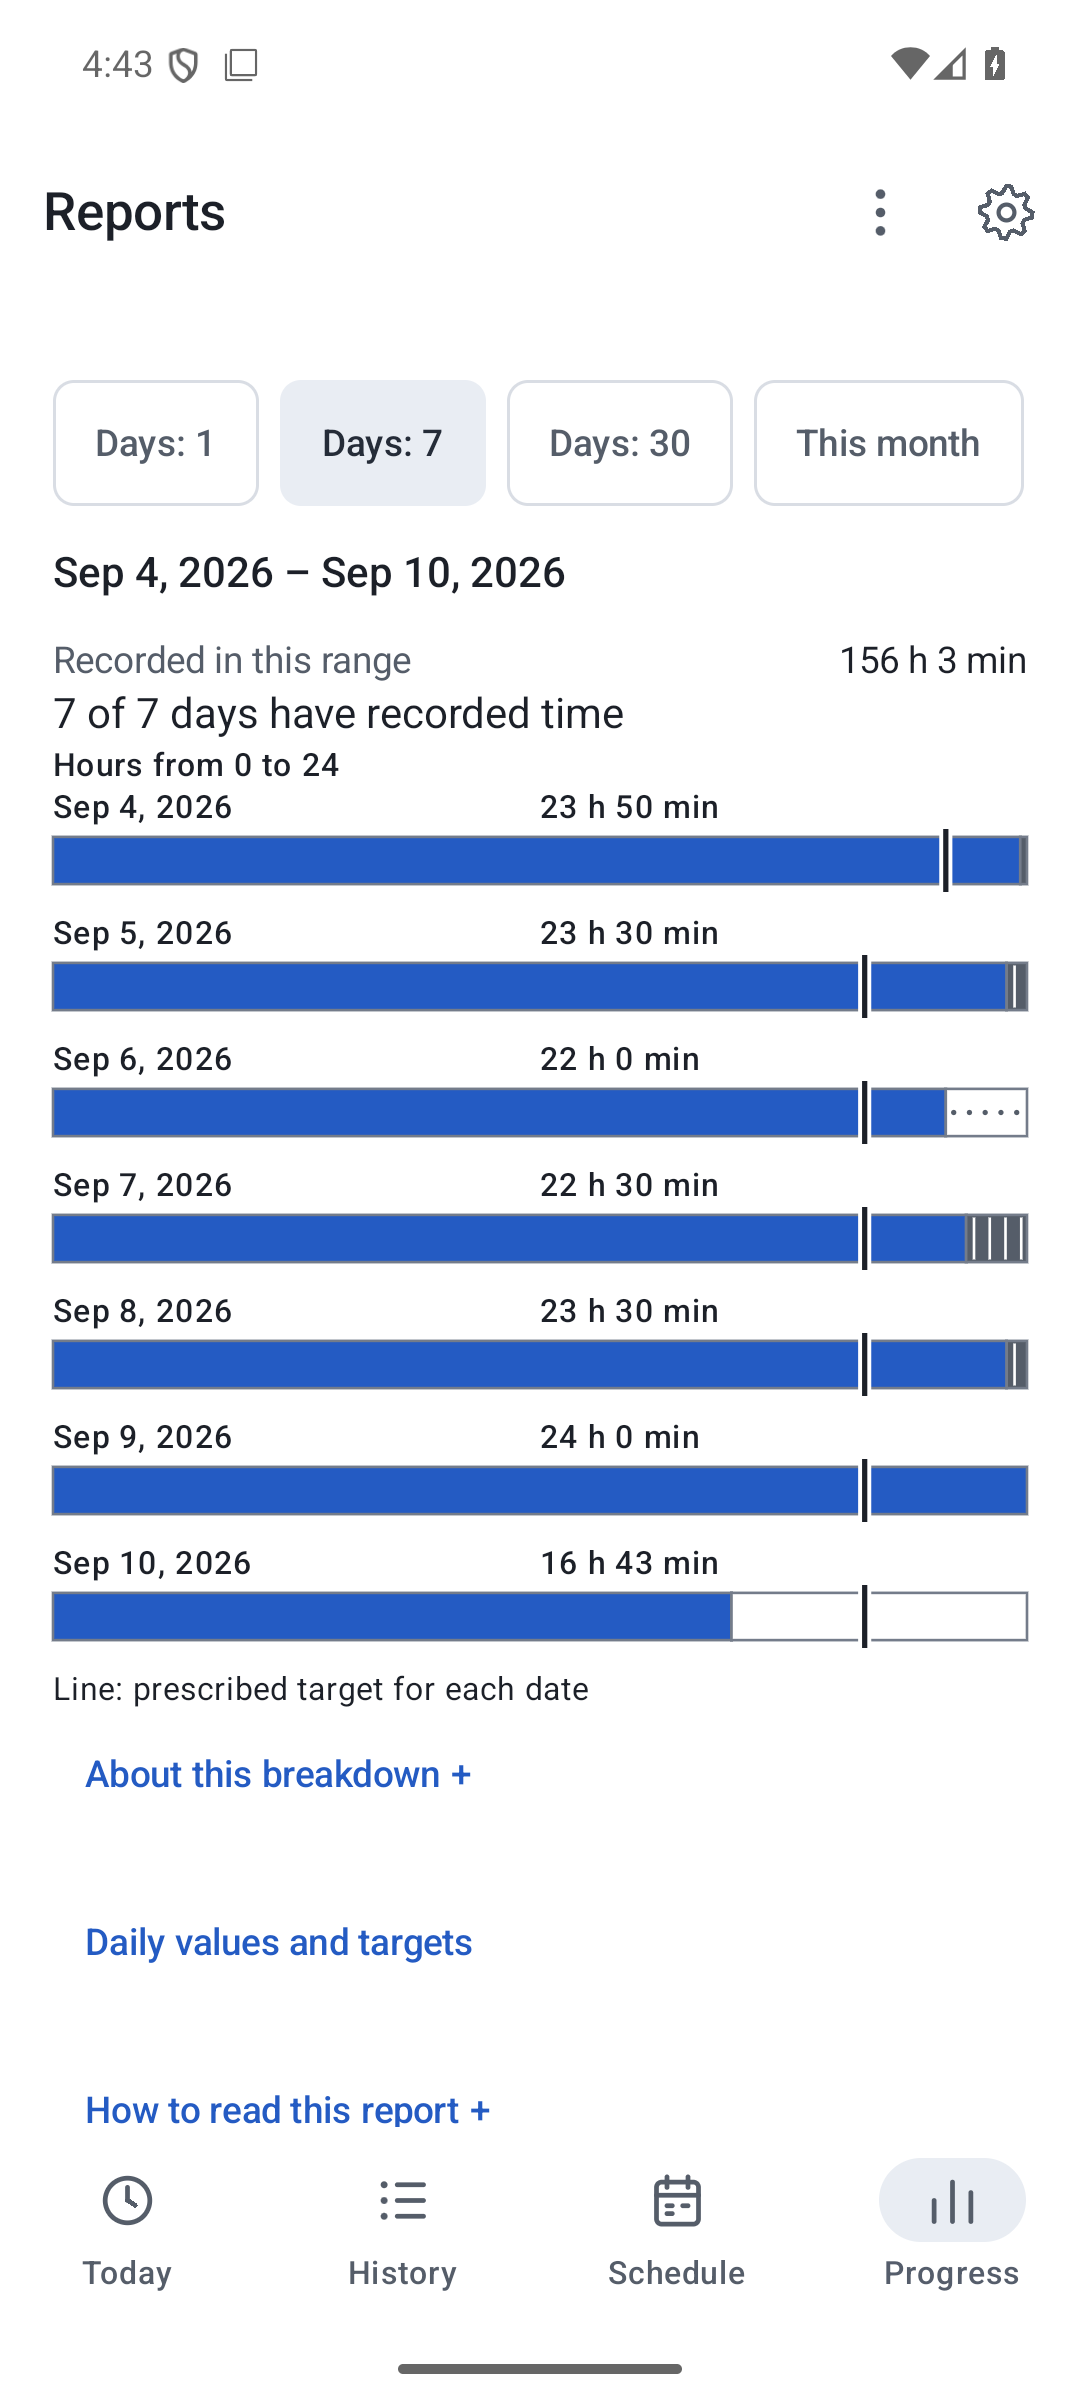
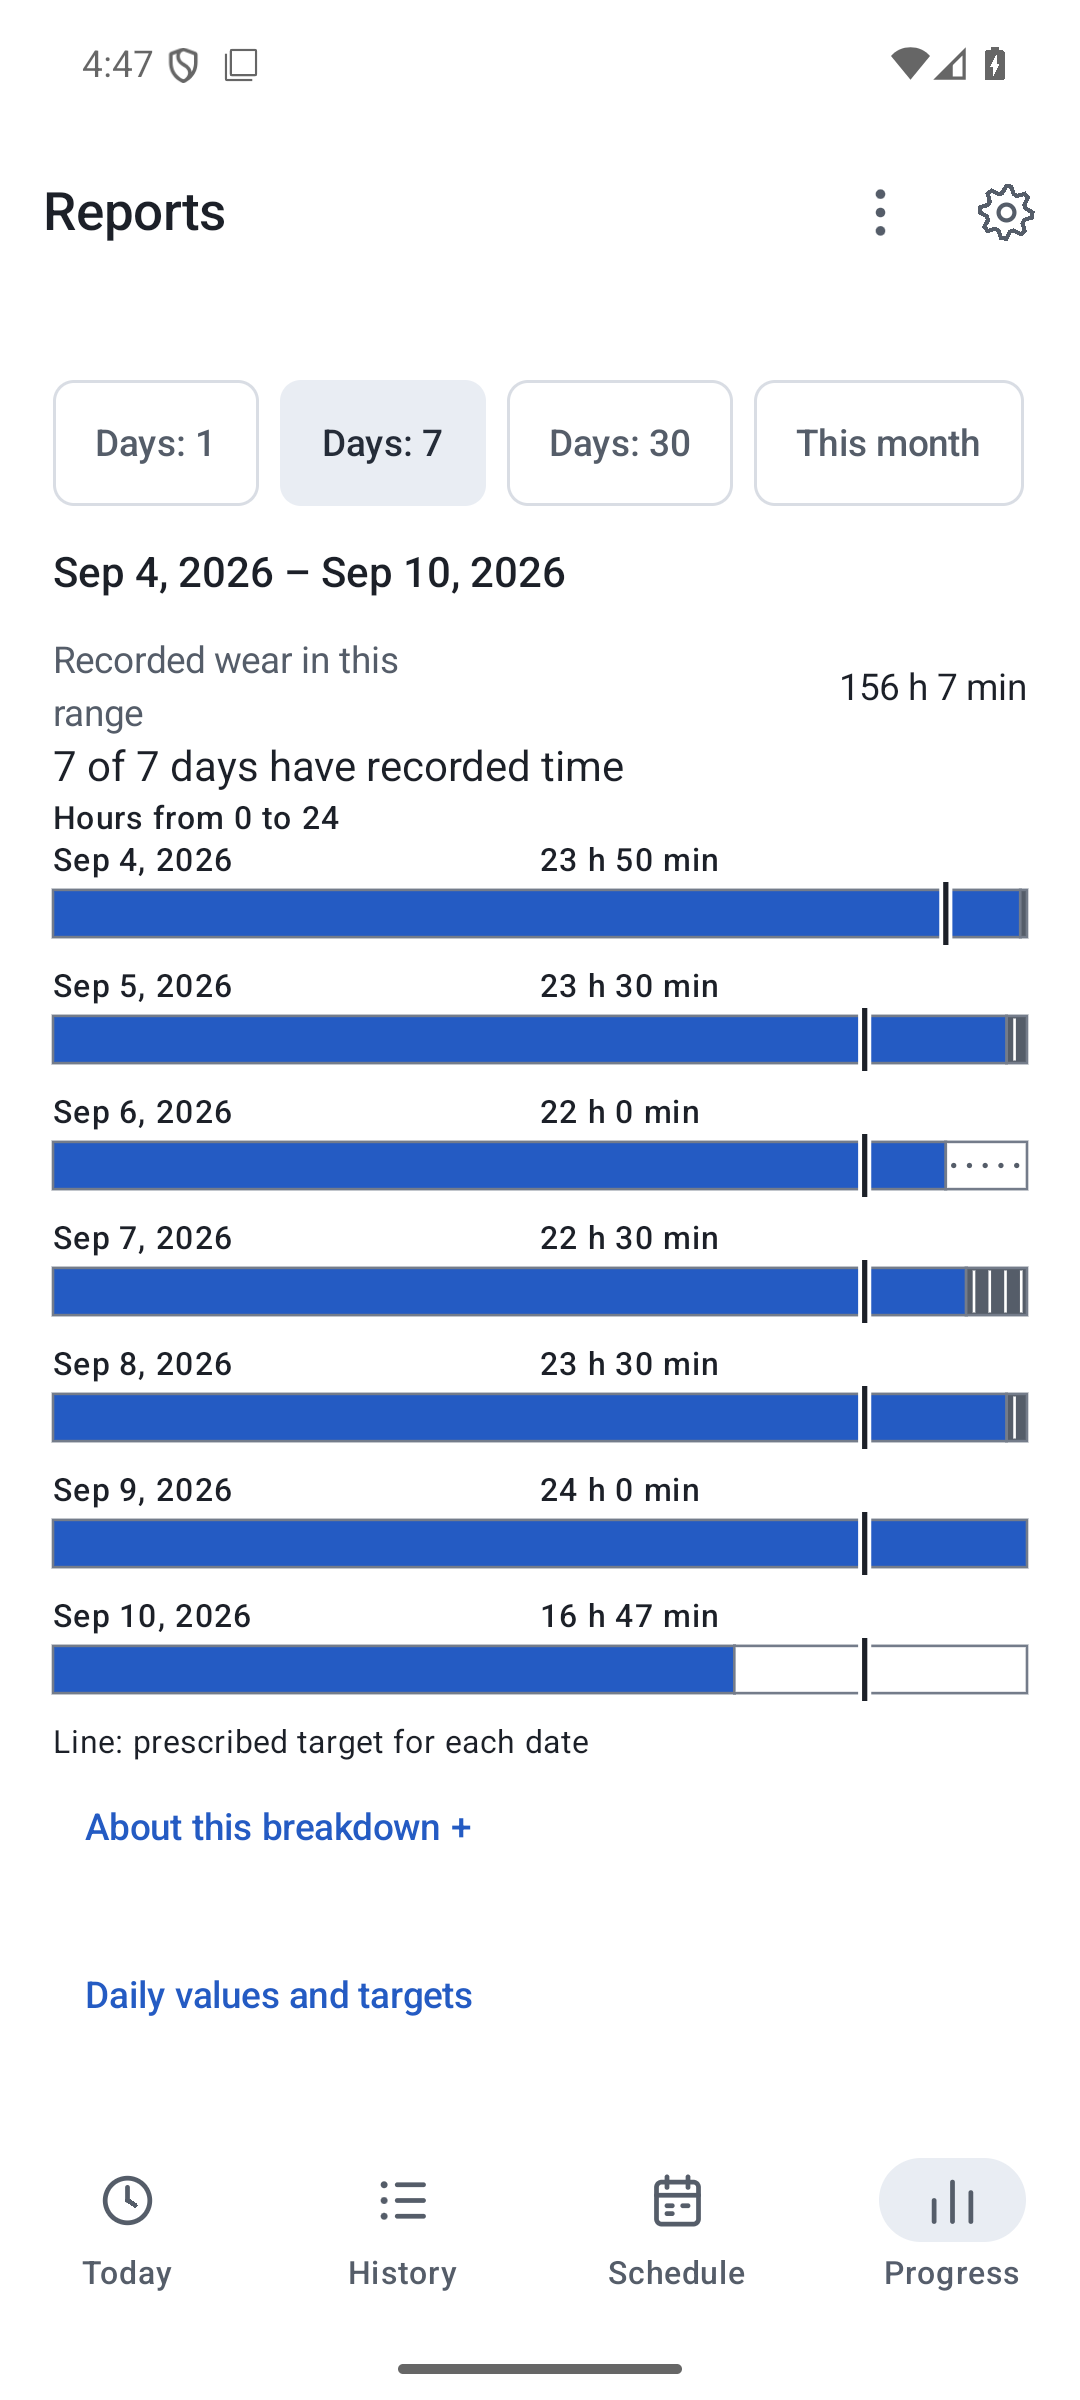
Document final signed candidate, upgrade and visual comparison (#37)

diff --git a/docs/visual-comparison.html b/docs/visual-comparison.html
@@ -1,0 +1,1 @@
+<!doctype html><html lang="en"><meta charset="utf-8"><meta name="viewport" content="width=device-width"><title>Aligner Tracker visual comparison</title><style>body{font:16px system-ui;background:#f3f5f8;color:#1c2028;margin:auto;padding:24px;max-width:1040px}h1{font-size:28px}h2{font-size:20px;margin-top:40px}.pair{display:grid;grid-template-columns:1fr 1fr;gap:16px}figure{margin:0}figcaption{padding:12px 0}img{width:100%;height:auto;border:1px solid #ccc}a{color:#245bc3}</style><h1>Version 6 → Candidate 7</h1><p>Actual API36 emulator captures. Established records are identical; elapsed session time advances. Partial journeys use equivalent unknown-prescription states. Owner aesthetic and physical-device acceptance remain unverified.</p><p><a href="validation-refinement.md">Validation and limitations</a> · <a href="visual-time-refinement.md">Design decisions and sources</a></p><section><h2>Fresh start</h2><div class="pair"><figure><figcaption>Version 6</figcaption><a href="screenshots/refinement/before/fresh.png"><img loading="lazy" src="screenshots/refinement/before/fresh.png" alt="Fresh start, Version 6"></a></figure><figure><figcaption>Candidate 7</figcaption><a href="screenshots/refinement/after/fresh.png"><img loading="lazy" src="screenshots/refinement/after/fresh.png" alt="Fresh start, Candidate 7"></a></figure></div></section><section><h2>Partial tracking</h2><div class="pair"><figure><figcaption>Version 6</figcaption><a href="screenshots/refinement/before/partial.png"><img loading="lazy" src="screenshots/refinement/before/partial.png" alt="Partial tracking, Version 6"></a></figure><figure><figcaption>Candidate 7</figcaption><a href="screenshots/refinement/after/partial.png"><img loading="lazy" src="screenshots/refinement/after/partial.png" alt="Partial tracking, Candidate 7"></a></figure></div></section><section><h2>Empty History</h2><div class="pair"><figure><figcaption>Version 6</figcaption><a href="screenshots/refinement/before/empty.png"><img loading="lazy" src="screenshots/refinement/before/empty.png" alt="Empty History, Version 6"></a></figure><figure><figcaption>Candidate 7</figcaption><a href="screenshots/refinement/after/empty.png"><img loading="lazy" src="screenshots/refinement/after/empty.png" alt="Empty History, Candidate 7"></a></figure></div></section><section><h2>Today</h2><div class="pair"><figure><figcaption>Version 6</figcaption><a href="screenshots/refinement/before/today.png"><img loading="lazy" src="screenshots/refinement/before/today.png" alt="Today, Version 6"></a></figure><figure><figcaption>Candidate 7</figcaption><a href="screenshots/refinement/after/today.png"><img loading="lazy" src="screenshots/refinement/after/today.png" alt="Today, Candidate 7"></a></figure></div></section><section><h2>History</h2><div class="pair"><figure><figcaption>Version 6</figcaption><a href="screenshots/refinement/before/history.png"><img loading="lazy" src="screenshots/refinement/before/history.png" alt="History, Version 6"></a></figure><figure><figcaption>Candidate 7</figcaption><a href="screenshots/refinement/after/history.png"><img loading="lazy" src="screenshots/refinement/after/history.png" alt="History, Candidate 7"></a></figure></div></section><section><h2>Schedule</h2><div class="pair"><figure><figcaption>Version 6</figcaption><a href="screenshots/refinement/before/schedule.png"><img loading="lazy" src="screenshots/refinement/before/schedule.png" alt="Schedule, Version 6"></a></figure><figure><figcaption>Candidate 7</figcaption><a href="screenshots/refinement/after/schedule.png"><img loading="lazy" src="screenshots/refinement/after/schedule.png" alt="Schedule, Candidate 7"></a></figure></div></section><section><h2>Reports</h2><div class="pair"><figure><figcaption>Version 6</figcaption><a href="screenshots/refinement/before/reports.png"><img loading="lazy" src="screenshots/refinement/before/reports.png" alt="Reports, Version 6"></a></figure><figure><figcaption>Candidate 7</figcaption><a href="screenshots/refinement/after/reports.png"><img loading="lazy" src="screenshots/refinement/after/reports.png" alt="Reports, Candidate 7"></a></figure></div></section><section><h2>320dp / 200% / dark</h2><div class="pair"><figure><figcaption>Version 6</figcaption><a href="screenshots/refinement/before/small-dark.png"><img loading="lazy" src="screenshots/refinement/before/small-dark.png" alt="320dp / 200% / dark, Version 6"></a></figure><figure><figcaption>Candidate 7</figcaption><a href="screenshots/refinement/after/small-dark.png"><img loading="lazy" src="screenshots/refinement/after/small-dark.png" alt="320dp / 200% / dark, Candidate 7"></a></figure></div></section><section><h2>320dp / 200% / RTL</h2><div class="pair"><figure><figcaption>Version 6</figcaption><a href="screenshots/refinement/before/small-dark-rtl.png"><img loading="lazy" src="screenshots/refinement/before/small-dark-rtl.png" alt="320dp / 200% / RTL, Version 6"></a></figure><figure><figcaption>Candidate 7</figcaption><a href="screenshots/refinement/after/small-dark-rtl.png"><img loading="lazy" src="screenshots/refinement/after/small-dark-rtl.png" alt="320dp / 200% / RTL, Candidate 7"></a></figure></div></section><section><h2>Signed upgrade</h2><div class="pair"><figure><figcaption>Version 6</figcaption><a href="screenshots/refinement/before/upgrade-today.png"><img loading="lazy" src="screenshots/refinement/before/upgrade-today.png" alt="Signed upgrade, Version 6"></a></figure><figure><figcaption>Candidate 7</figcaption><a href="screenshots/refinement/after/upgrade-today.png"><img loading="lazy" src="screenshots/refinement/after/upgrade-today.png" alt="Signed upgrade, Candidate 7"></a></figure></div></section></html>

diff --git a/docs/validation-refinement.md b/docs/validation-refinement.md
@@ -46,3 +46,13 @@ These are sampled configurations and journeys, not exhaustive coverage of every 
 The first file-only comparison was superseded: copied fixture directories retained the previous debug UID SELinux category and prevented release reads. The emulator fixture labels were corrected to the installed package context. The repeated signed6→7 check verified rendered records on both versions and exact table/preference equality. This was a fixture setup error, not a persistence migration.
 
 Native [12-hour clock](screenshots/refinement/after/clock.png), [320dp/200% clock](screenshots/refinement/after/clock-small-dark.png) and [scrolled confirmation controls](screenshots/refinement/after/clock-small-dark-actions.png) were inspected. Clock values remain legible and Save/Cancel are reachable by scrolling.
+
+## Final candidate — authoritative artifact
+
+The final range label explicitly says **Recorded wear in this range**, with aggregate OUT/tracked durations retained under About this breakdown. This presentation-only follow-up passed focused release compilation/lint and final clean formatting/phone/watch release builds. It changes no picker or data behavior.
+
[1 lines of base64/hex data omitted]
+
+The final APK was again installed directly over signed6, with rendered records verified on both versions and exact database/reminder equality. The [upgrade evidence](evidence/refinement/signed-upgrade.json) identifies this final checksum. [Visual comparison viewer](visual-comparison.html) provides before/after pairs. [Settings accounting zone](screenshots/refinement/after/settings-zone.png) is the sole phone timezone surface.
+
+Additional final captures: [24-hour clock](screenshots/refinement/after/clock-24h.png), [empty History](screenshots/refinement/after/empty.png). The native clock switched presentation with the emulator 12/24-hour setting; cancellation left the event unchanged. The settings screenshot and signed Reports capture use the final artifact.

diff --git a/docs/release.md b/docs/release.md
@@ -186,4 +186,4 @@ companion artifact and was not added to the phone catalogue.
 
 ## Unpublished visual and picker candidate 7
 
-Owner-requested refinement #37 is prepared from `681ae2f`, tag `visual-time-candidate-7`, with versionCode7 and the existing app identity. [Validation and signed6→7 data-preservation evidence](validation-refinement.md). Local installable bundle: `/home/matejkalc/.local/share/aligner-tracker/releases/visual-time-candidate-7/`. This does not replace the published version6 or authorize installation onto the owner phone. Owner aesthetic and physical acceptance remain open.
+Owner-requested refinement #37 is prepared from `3ec3246`, tag `visual-time-candidate-7-final`, with versionCode7 and the existing app identity. [Validation and signed6→7 data-preservation evidence](validation-refinement.md). Local installable bundle: `/home/matejkalc/.local/share/aligner-tracker/releases/visual-time-candidate-7/`. This does not replace the published version6 or authorize installation onto the owner phone. Owner aesthetic and physical acceptance remain open.
